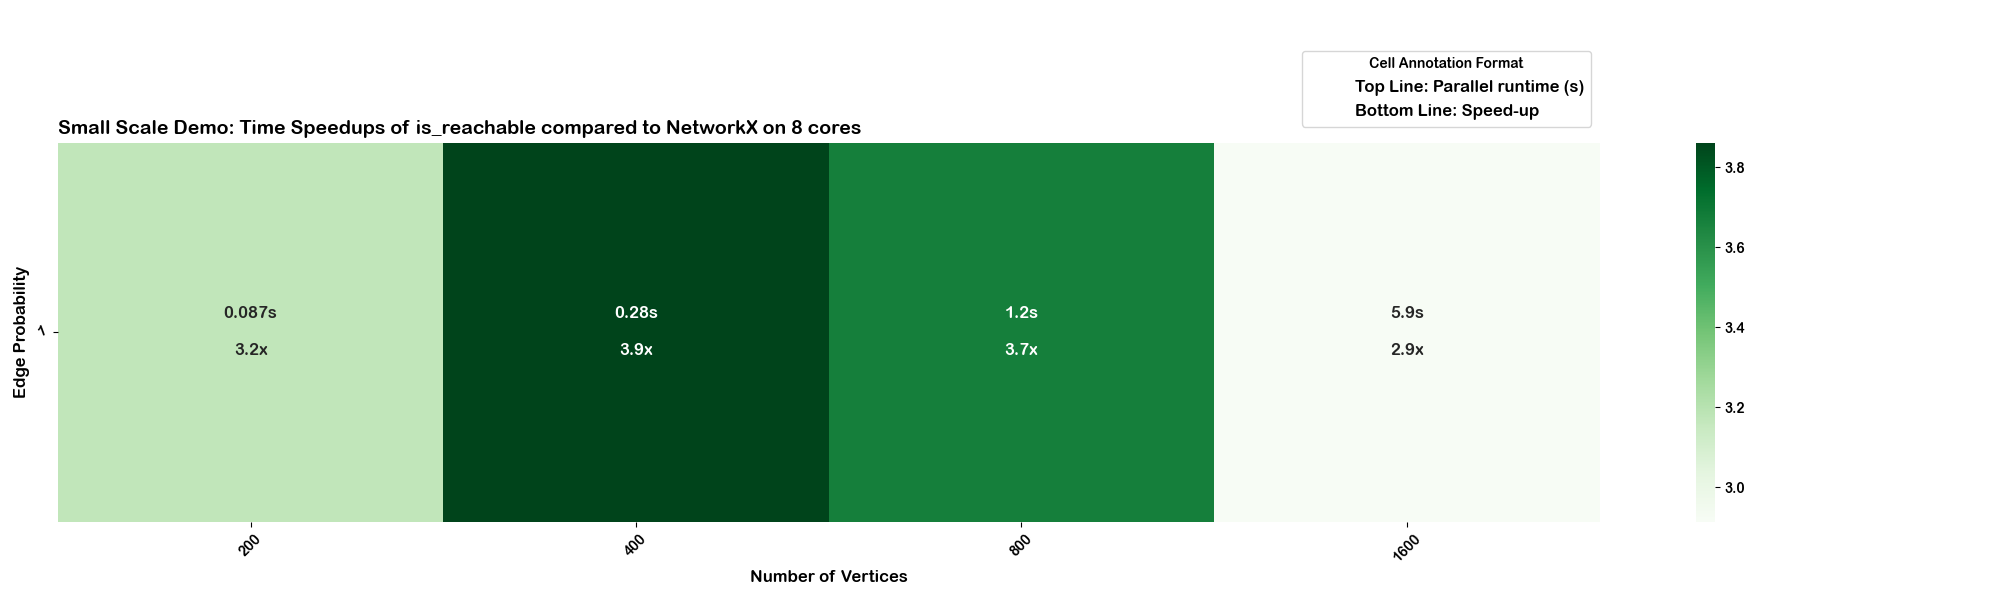
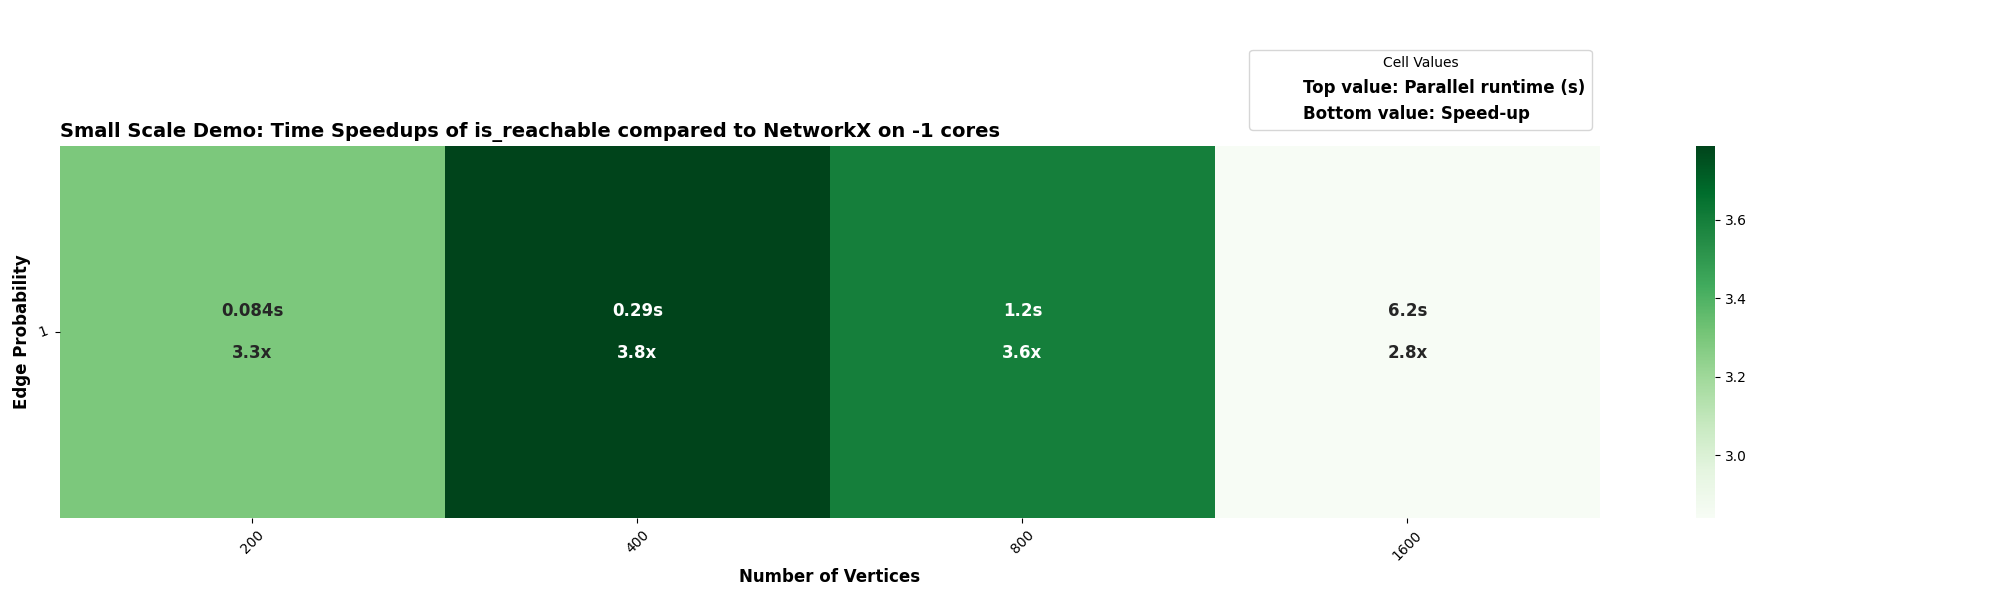
final touches

diff --git a/timing/timing_individual_function.py b/timing/timing_individual_function.py
@@ -9,20 +9,13 @@ from matplotlib import pyplot as plt, patches as mpatches
 import seaborn as sns
 import numpy as np
 import pandas as pd
-import joblib
 import timeit
 import random
 import types
 
-# Default Config
-joblib.parallel_config(n_jobs=-1)
-# To use NetworkX's parallel backend, set the following configuration.
-# nx.config.backends.parallel.active = True
-# nx.config.backends.parallel.n_jobs = -1
-
+seed = random.Random(42)
 tournament_funcs = ["is_reachable", "tournament_is_strongly_connected"]
 bipartite_funcs = ["node_redundancy"]
-random.seed(42)
 
 
 def time_individual_function(
@@ -51,13 +44,15 @@ def time_individual_function(
                 if targetFunc.__name__ in bipartite_funcs:
                     n = [200, 400, 800, 1600]
                     m = [100, 200, 400, 800]
-                    print(n[ind] + m[ind])
-                    G = nx.bipartite.random_graph(n[ind], m[ind], p, directed=True)
+                    print(f"Number of Nodes: {n[ind] + m[ind]}")
+                    G = nx.bipartite.random_graph(
+                        n[ind], m[ind], p, directed=True, seed=seed
+                    )
                     for cur_node in G.nodes:
                         neighbors = set(G.neighbors(cur_node))
                         # have atleast 2 outgoing edges
                         while len(neighbors) < 2:
-                            new_neighbor = random.choice(
+                            new_neighbor = seed.choice(
                                 [
                                     node
                                     for node in G.nodes
@@ -67,12 +62,13 @@ def time_individual_function(
                             G.add_edge(cur_node, new_neighbor)
                             neighbors.add(new_neighbor)
                 else:
-                    print(num)
-                    G = nx.fast_gnp_random_graph(num, p, directed=True)
+                    print(f"Number of Nodes: {num}")
+                    G = nx.fast_gnp_random_graph(num, p, directed=True, seed=seed)
+                print(f"Edge Probability: {p}")
 
                 # for weighted graphs
                 if weighted:
-                    random.seed(42)
+                    seed.random()
                     for u, v in G.edges():
                         G[u][v]["weight"] = random.random()
 
@@ -87,12 +83,13 @@ def time_individual_function(
     else:
         # for tournament graphs
         for num in number_of_nodes:
-            print(num)
-            G = nx.tournament.random_tournament(num)
+            print(f"Number of Nodes: {num}")
+            G = nx.tournament.random_tournament(num, seed=seed)
             H = nxp.ParallelGraph(G)
-            parallelTime = measure_time(H, 1, num)
+            source, target = seed.sample(range(num), 2)
+            parallelTime = measure_time(H, source, target)
             print(parallelTime)
-            stdTime = measure_time(G, 1, num)
+            stdTime = measure_time(G, source, target)
             print(stdTime)
             record_result(stdTime, parallelTime, num, edge_prob[0])
             print("Finished " + str(targetFunc))
@@ -115,7 +112,7 @@ def plot_timing_heatmap(targetFunc):
         targetFunc, number_of_nodes, edge_prob, speedup_df, heatmap_annot
     )
 
-    plt.rcParams["font.family"] = "Arial Rounded MT Bold"
+    plt.rcParams["font.family"] = "DejaVu Sans"
     plt.figure(figsize=(20, 6))
     ax = sns.heatmap(
         data=speedup_df.T,
@@ -143,14 +140,14 @@ def plot_timing_heatmap(targetFunc):
     )
 
     legend_patches = [
-        mpatches.Patch(color="none", label="Top Line: Parallel runtime (s)"),
-        mpatches.Patch(color="none", label="Bottom Line: Speed-up"),
+        mpatches.Patch(color="none", label="Top value: Parallel runtime (s)"),
+        mpatches.Patch(color="none", label="Bottom value: Speed-up"),
     ]
     ax.legend(
         handles=legend_patches,
         loc="lower right",
         bbox_to_anchor=(1.0, 1.02),
-        title="Cell Annotation Format",
+        title="Cell Values",
         prop={"size": 12, "weight": "bold"},
     )
 
